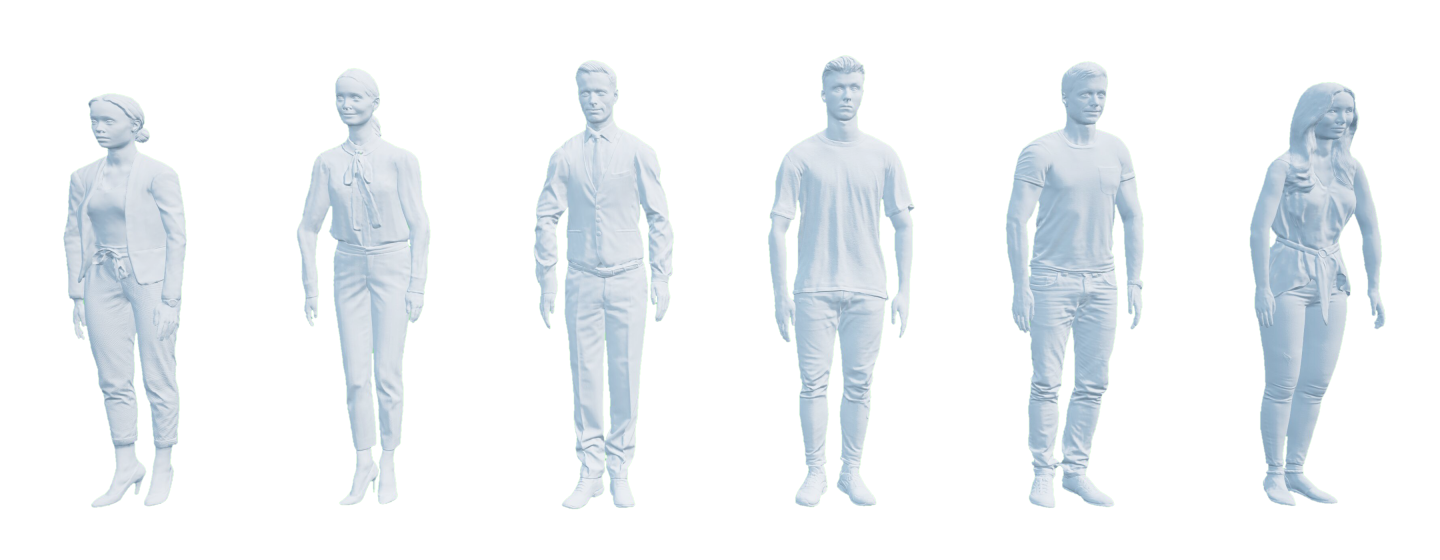
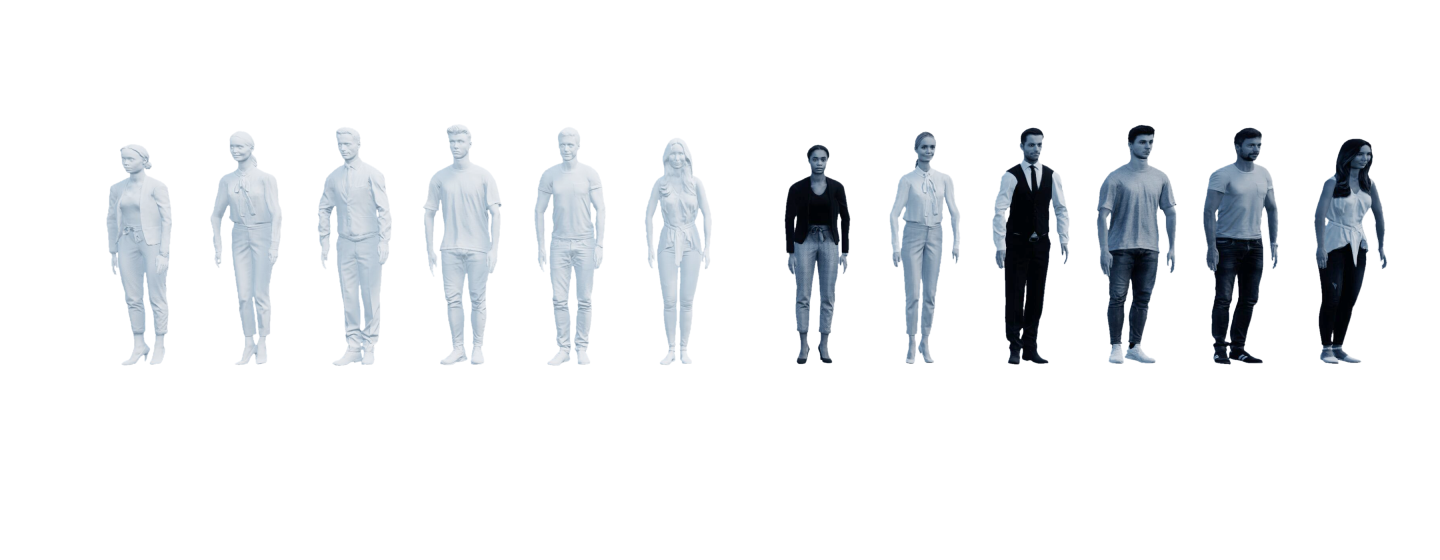
Added new configurations for people

Changed region(s): [[0.5312, 0.0911, 0.9688, 0.9107], [0.0312, 0.0911, 0.5, 0.9107]]

diff --git a/python/testing/generate_qlabs_documentation_images.py b/python/testing/generate_qlabs_documentation_images.py
@@ -228,21 +228,34 @@ def main(previewImages = False):
     hPerson = QLabsPerson(qlabs)
     
     for count in range(6):
-        hPerson.spawn(location=[93.562 - count, 63, 0.5], rotation=[0,0,math.pi/2], scale=[1,1,1], configuration=count, waitForConfirmation=True)
+        hPerson.spawn(location=[95.5 - count*0.8, 60, 0.5], rotation=[0,0,math.pi/2], scale=[1,1,1], configuration=count, waitForConfirmation=True)
+
+    for count in range(6):
+        hPerson.spawn(location=[95 - (count+6)*0.8, 60, 0.7], rotation=[0,0,math.pi/2], scale=[1,1,1], configuration=count+6, waitForConfirmation=True)
+
 
     time.sleep(0.5)
 
-    hsv_min = np.array([50,100,0])
+    hsv_min = np.array([50,100,150])
     hsv_max = np.array([90,255,255])
-    color_image, mask_image = get_color_and_mask(hCamera, [300, 1700, 300, 3900], hsv_min, hsv_max)
+    color_image, mask_image = get_color_and_mask(hCamera, [300, 1700, 300, 3900], hsv_min, hsv_max, 3)
     color_image = gammaCorrection(color_image, 0.8)
     
+    # Change cubes to white to avoid the green splash that shows up on the actors and save just the color image
+    hCube1.set_material_properties([1,1,1], 1)
+    hCube2.set_material_properties([1,1,1], 1)
+    color_image, temp = get_color_and_mask(hCamera, [300, 1700, 300, 3900], hsv_min, hsv_max, 3)
+    color_image = gammaCorrection(color_image, 0.8)
     
     save_masked_image('../docs/source/pictures/people.png', color_image, mask_image, 0.4, previewImages)
 
-    hPerson.destroy_all_actors_of_class()
+    hCube1.set_material_properties([0,1,0], 1)
+    hCube2.set_material_properties([0,1,0], 1)
     
 
+    hPerson.destroy_all_actors_of_class()
+    
+    
     ### Cones
     print("Cones\n")
 

diff --git a/python/docs/source/Objects/person_library.rst b/python/docs/source/Objects/person_library.rst
@@ -90,7 +90,7 @@ Methods
 Configurations
 ^^^^^^^^^^^^^^
 
-There are 6 configurations (0-5) for a person generated in QLabs.
+There are 12 configurations (0-11) for a person generated in QLabs.
 
 .. image:: ../pictures/people.png 
 
